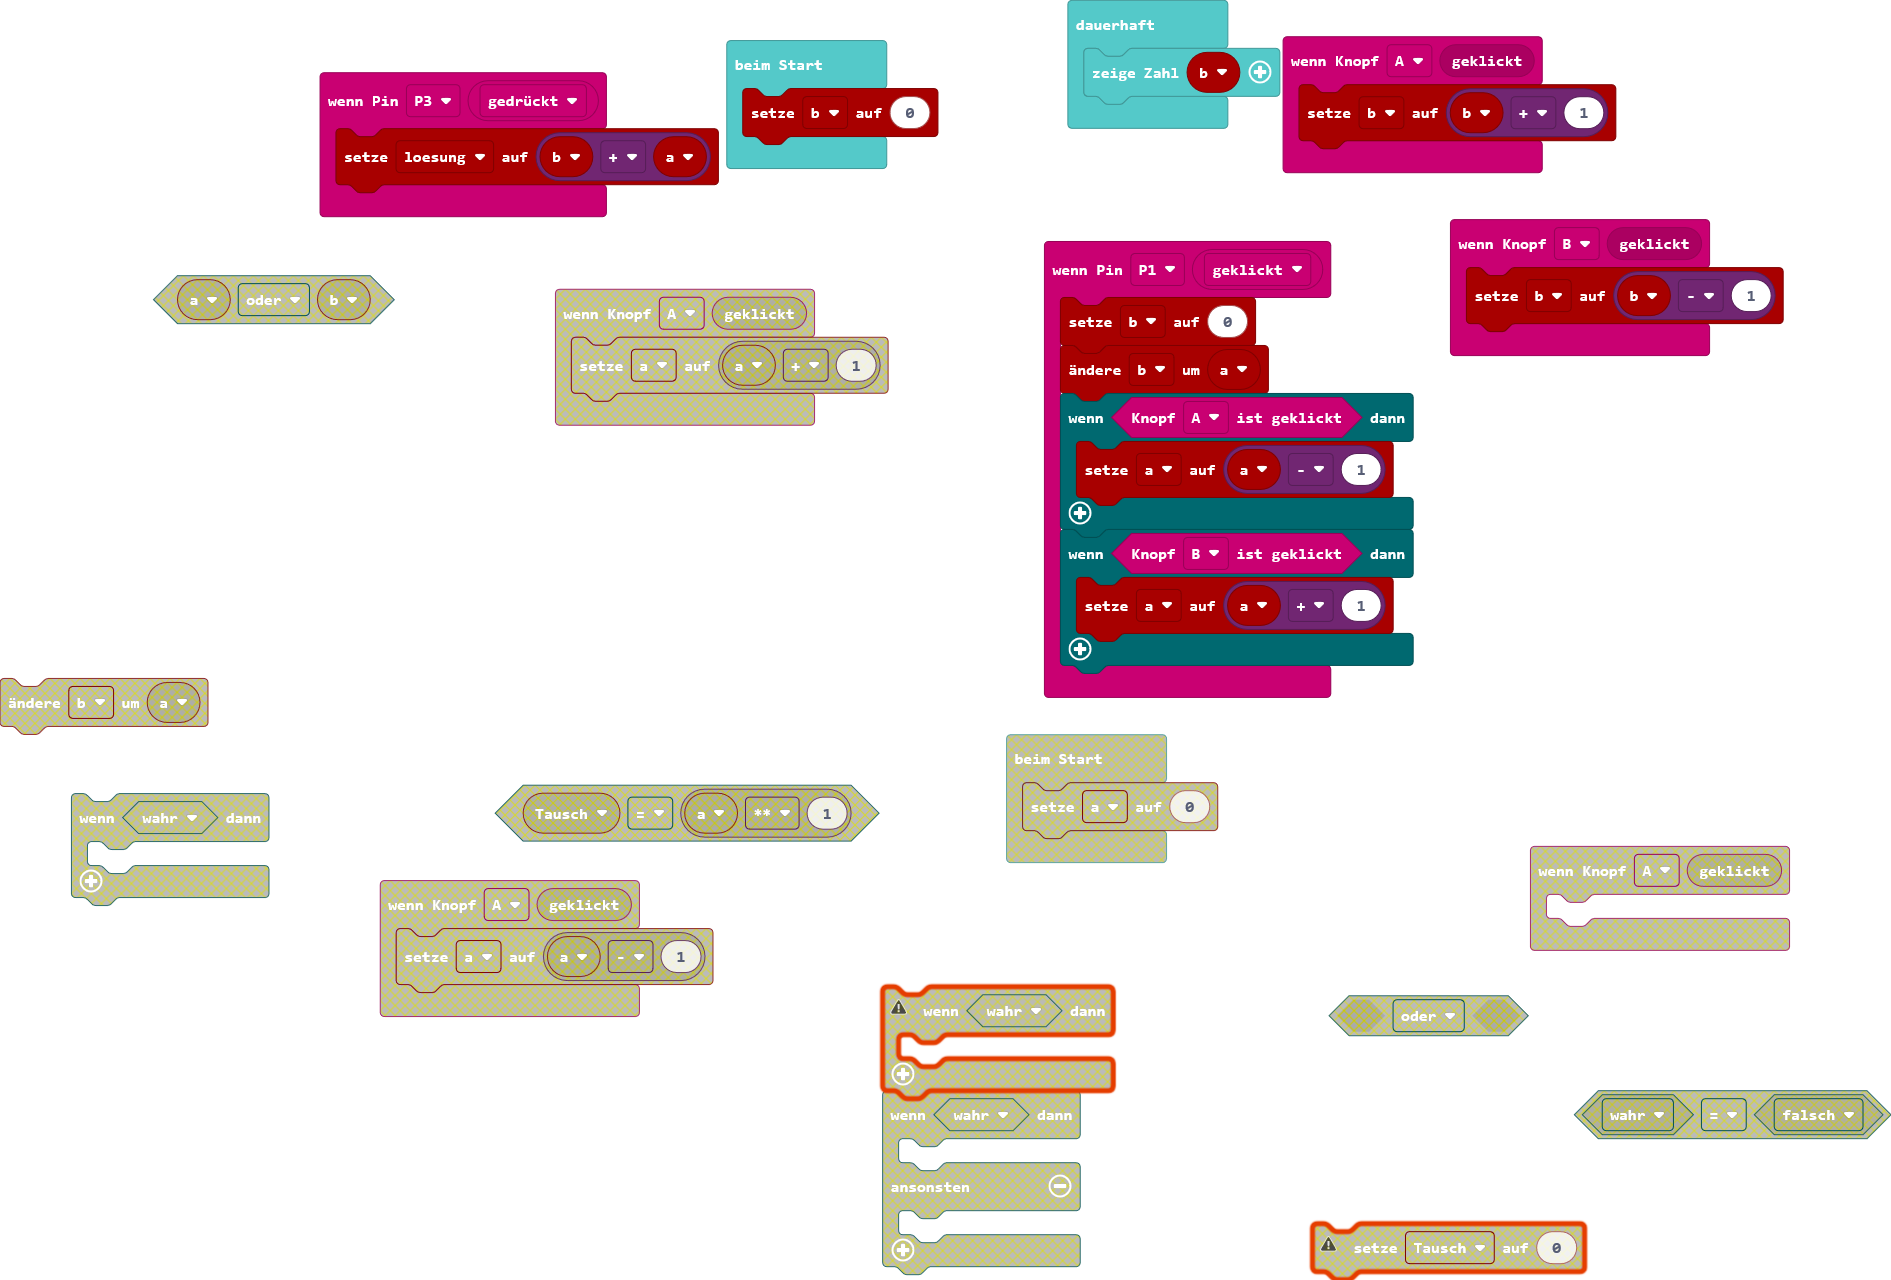
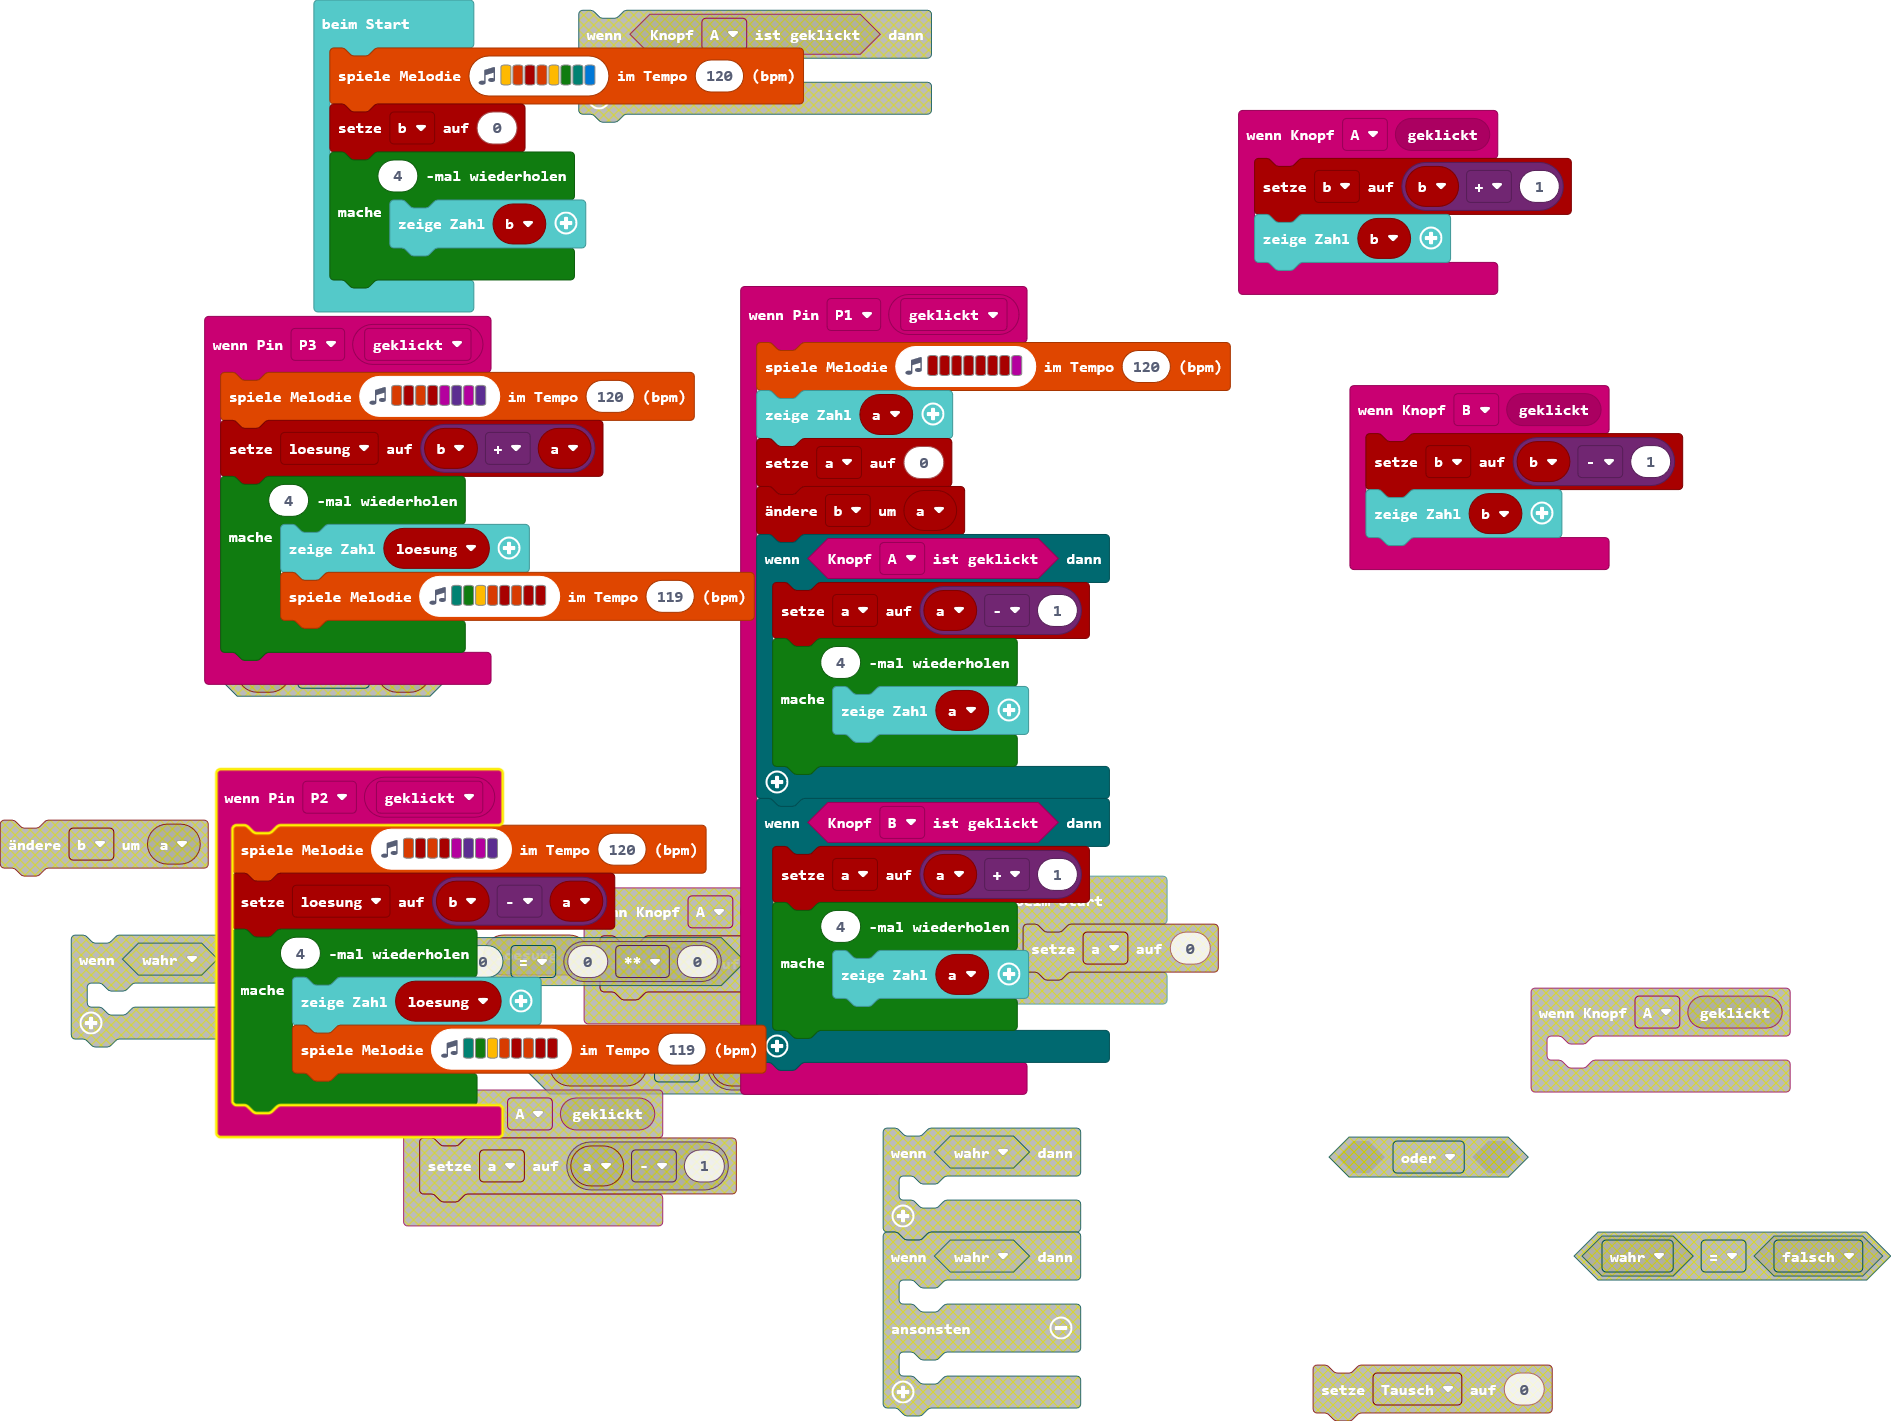
Aktualisiere main.blocks, main.ts

diff --git a/main.ts b/main.ts
@@ -1,26 +1,50 @@
-input.onPinTouchEvent(TouchPin.P3, ButtonEvent.Down, function () {
+input.onPinTouchEvent(TouchPin.P3, ButtonEvent.Click, function () {
+    music.playMelody("B C5 B C5 C D C D ", 120)
     loesung = b + a
+    for (let index = 0; index < 4; index++) {
+        basic.showNumber(loesung)
+        music.playMelody("F G A B C5 B C5 C5 ", 119)
+    }
+})
+input.onPinTouchEvent(TouchPin.P2, ButtonEvent.Click, function () {
+    music.playMelody("B C5 B C5 C D C D ", 120)
+    loesung = b - a
+    for (let index = 0; index < 4; index++) {
+        basic.showNumber(loesung)
+        music.playMelody("F G A B C5 B C5 C5 ", 119)
+    }
 })
 input.onButtonEvent(Button.A, input.buttonEventClick(), function () {
     b = b + 1
+    basic.showNumber(b)
 })
 input.onButtonEvent(Button.B, input.buttonEventClick(), function () {
     b = b - 1
+    basic.showNumber(b)
 })
 input.onPinTouchEvent(TouchPin.P1, ButtonEvent.Click, function () {
-    b = 0
+    music.playMelody("C5 C5 C5 C5 C5 C5 C5 C ", 120)
+    basic.showNumber(a)
+    a = 0
     b += a
     if (input.buttonIsPressed(Button.A)) {
         a = a - 1
+        for (let index = 0; index < 4; index++) {
+            basic.showNumber(a)
+        }
     }
     if (input.buttonIsPressed(Button.B)) {
         a = a + 1
+        for (let index = 0; index < 4; index++) {
+            basic.showNumber(a)
+        }
     }
 })
 let a = 0
 let loesung = 0
 let b = 0
+music.playMelody("A B C5 B A G F E ", 120)
 b = 0
-basic.forever(function () {
+for (let index = 0; index < 4; index++) {
     basic.showNumber(b)
-})
+}
